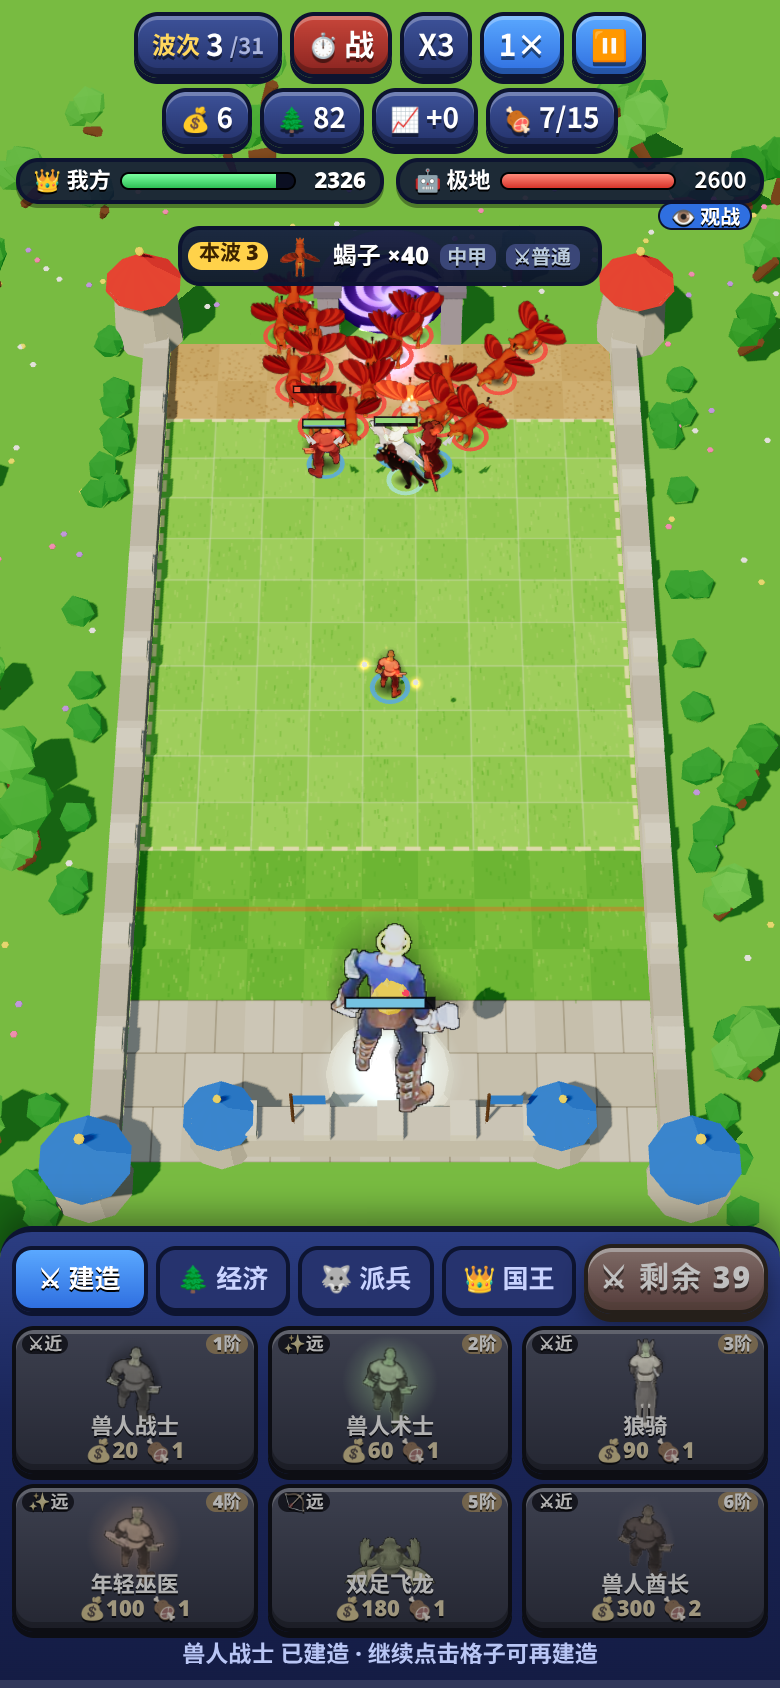
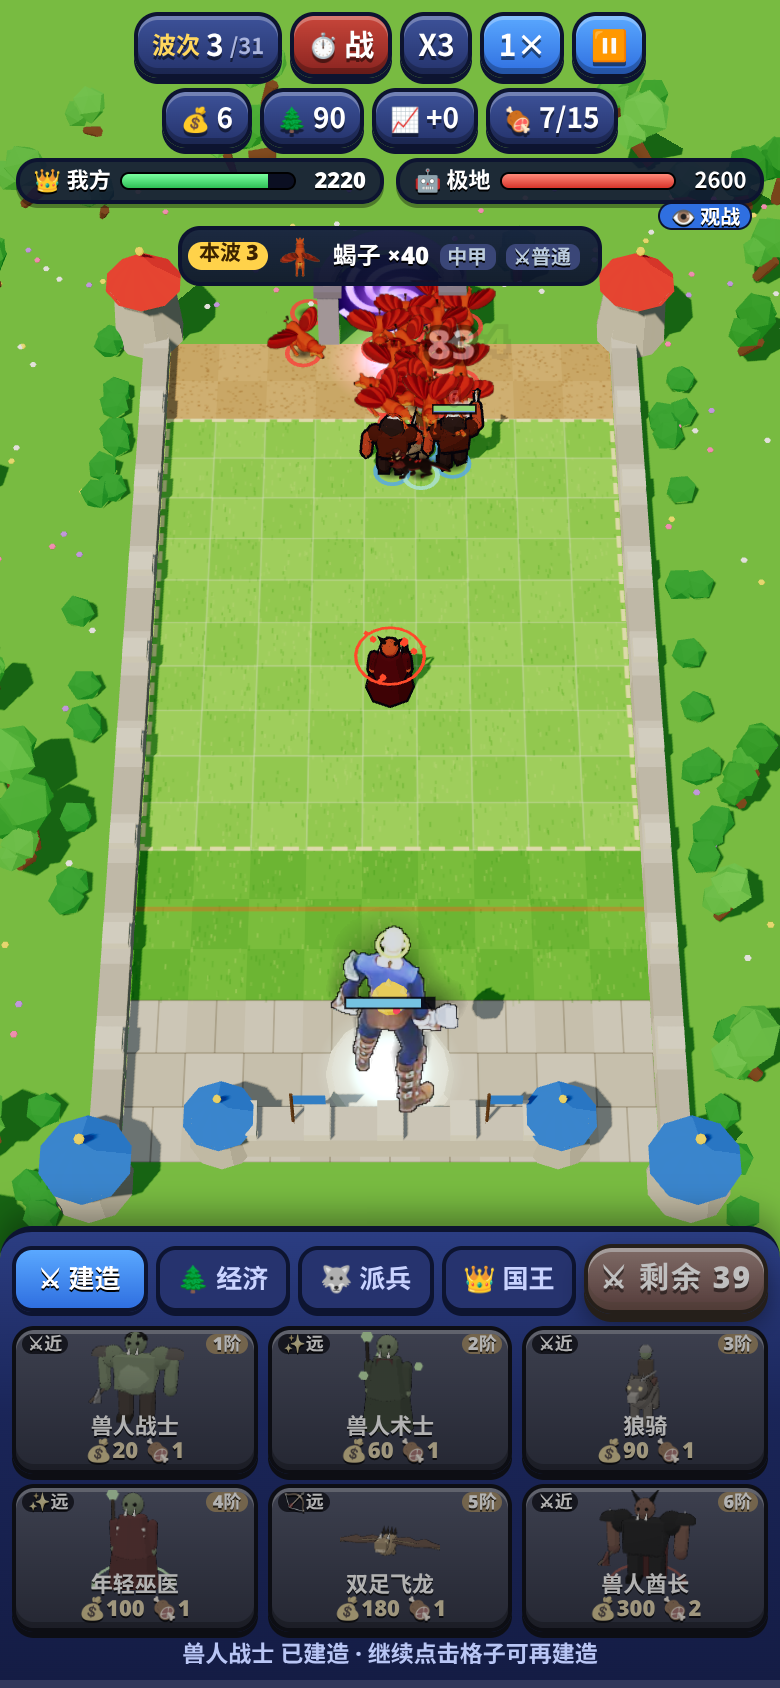
Model remake: Orc (grunts, blood orcs, warlocks, wolf raiders, witch doctors, wyverns, warchief, Thrall)

diff --git a/toonrecipes.js b/toonrecipes.js
@@ -87,3 +87,17 @@ R('h06Q',{k:1.02,h:1.05,torso:'default',head:'default',helm:'horns',hornC:0x2a1a
 R('h06R',{k:1.18,h:1.12,torso:'default',head:'default',helm:'horns',hornC:0x1a1a3a,skin:0x6a8ad8,torsoC:0x1a1a4a,legC:0x6a8ad8,legs:'hoof',hair:0x1a1a2a,weapon:'chain',glow:0x8ad8ff,atk:'swing',extras:['bwings:0x2a2a6a','tail:0x6a8ad8','aura:0xff8ad8','orbit:0xff8ad8']});
 R('h06S',{k:1.25,h:1.15,bw:1.4,torso:'brute',head:'beast',headC:0x7a5030,helm:'horns',hornC:0xf0e8d8,skin:0x8a5a3a,torsoC:0x8a5a3a,legC:0x5a3a20,sleeve:0x8a5a3a,handC:0x7a5030,legs:'hoof',eye:0xffd02a,weapon:'hammer',wood:0x6a4a2a,wMetal:0x8a8a8a,atk:'slam',extras:['mane:0x3a2a1a','tabard:0x3a8ad8','tail:0x5a3a20']});
 R('h06T',{k:1.3,h:1.18,bw:1.5,torso:'brute',head:'beast',headC:0x8a6a4a,skin:0x7a5a3a,torsoC:0x7a5a3a,legC:0x6a4a2a,sleeve:0x7a5a3a,handC:0x5a3a20,arms:'claw',eye:0xffa02a,weapon:'claws',off:'claws',atk:'slam',extras:['mane:0x5a3a20','belly:0xa08060','spikes:0x5a3a20']});
+// ===================== 兽人 Orc：兽人战士/术士/狼骑/双足飞龙/萨尔 =====================
+R('h0BF',{k:0.98,h:1.0,bw:1.3,torso:'brute',head:'default',skin:0x6a9a3a,torsoC:0x6a9a3a,legC:0x5a4030,sleeve:0x6a9a3a,handC:0x5a8a32,bootC:0x3a2a1a,hair:0x1a1a1a,weapon:'axe',wMetal:0x9a9aa0,pads:true,padC:0x6a5a4a,atk:'swing',extras:['tusks','belly:0x7aaa4a']});
+R('h0BS',{k:1.1,h:1.05,bw:1.35,torso:'brute',head:'default',skin:0xb8502a,torsoC:0xb8502a,legC:0x3a2a2a,sleeve:0xb8502a,handC:0xa8402a,bootC:0x2a1a1a,hair:0x1a1a1a,eye:0xff2a2a,weapon:'axe',wMetal:0x6a6a70,pads:true,padC:0x2a2a2a,spikes:true,atk:'swing',extras:['tusks','aura:0xff3a2a']});
+R('h0BU',{k:1.08,h:1.02,bw:1.25,torso:'brute',head:'default',skin:0xa8482a,torsoC:0x5a2a1a,legC:0x3a2a2a,sleeve:0xa8482a,handC:0xa8482a,bootC:0x2a1a1a,hair:0xd8d8d8,eye:0xff3a2a,weapon:'axe',off:'axe',wMetal:0xc8c8d0,atk:'swing',extras:['tusks','mane:0x3a2a2a','bones']});
+R('h0BV',{k:0.98,h:1.0,torso:'robe',head:'default',helm:'hood',hoodC:0x2a4a2a,skin:0x6a9a3a,torsoC:0x3a5a2a,weapon:'staff',wood:0x3a2a1a,glow:0x8aff4a,atk:'cast',extras:['tusks','tabard:0x8a2a2a','orbit:0x8aff4a']});
+R('h0BW',{k:1.1,h:1.05,torso:'robe',head:'default',helm:'horns',hornC:0x2a1a1a,skin:0xb8502a,torsoC:0x5a1a1a,weapon:'staff',wood:0x2a1a1a,glow:0xff4a2a,atk:'cast',extras:['tusks','bones','orbit:0xff4a2a','aura:0xff4a2a']});
+R('h0BX',{k:1.05,plan:'quad',skin:0x7a6a5a,skin2:0xa89a88,headType:'wolf',eye:0xffd02a,legLen:0.3,bodyLen:0.62,tailLen:0.35,tailW:1.4,mane:true,maneC:0x5a4a3a,claws:true,saddle:0x8a3a2a,rider:0x6a4a2a,riderSkin:0x6a9a3a,riderHelm:0x8a8a8a,lance:0x8a8a8a,atk:'bite'});
+R('h0C0',{k:1.2,plan:'quad',skin:0x2a2a2a,skin2:0x5a3a3a,headType:'wolf',eye:0xff3a2a,legLen:0.32,bodyLen:0.66,tailLen:0.38,tailW:1.4,mane:true,maneC:0x8a1a1a,claws:true,spikes:true,saddle:0x2a1a1a,rider:0x2a1a1a,riderSkin:0xb8502a,riderHelm:0x3a3a3a,lance:0x6a6a70,atk:'bite',extras:['aura:0xff3a2a']});
+R('h0C4',{k:1.0,h:1.0,torso:'robe',head:'default',helm:'hood',hoodC:0x8a1a1a,skin:0x6a9a3a,torsoC:0xa82a2a,weapon:'staff',wood:0x5a3a1a,glow:0x8aff6a,atk:'cast',extras:['tusks','bones','aura:0x8aff6a']});
+R('h0C2',{k:1.15,h:1.05,bw:1.2,torso:'robe',head:'default',helm:'hood',hoodC:0x4a1a3a,skin:0x5a8a3a,torsoC:0x6a2a4a,beard:0x2a2a2a,weapon:'staff',off:'book',bookC:0x3a2a1a,wood:0x3a2a1a,glow:0x8aff4a,pads:true,padC:0x2a2a2a,spikes:true,atk:'cast',extras:['tusks','beard:0x2a2a2a','aura:0x8aff4a','orbit:0x8aff4a']});
+R('h0C5',{k:0.95,plan:'flyer',skin:0xc8882a,skin2:0xf0c070,wingC:0x8a4a2a,eye:0xffe04a,neckLen:0.4,headS:1.15,tailLen:0.5,wingSpan:1.0,alt:0.4,atk:'shoot',extras:['spikes:0x3a2a1a']});
+R('h0C8',{k:1.08,plan:'flyer',skin:0xb87a2a,skin2:0xf0c070,wingC:0x6a3a1a,eye:0xffe04a,neckLen:0.4,headS:1.15,tailLen:0.5,wingSpan:1.08,alt:0.4,rider:0x6a4a2a,riderSkin:0x6a9a3a,atk:'shoot',extras:['spikes:0x3a2a1a','quiver']});
+R('h0C9',{k:1.12,h:1.12,bw:1.4,torso:'brute',head:'default',helm:'horns',hornC:0x1a1a1a,skin:0xb8502a,torsoC:0x2a2a2e,legC:0x2a2a2e,sleeve:0xb8502a,handC:0xa8402a,bootC:0x1a1a1a,eye:0xff2a2a,metal:0x3a3a40,weapon:'axe',wMetal:0xc83a2a,pads:true,padC:0x2a2a2e,spikes:true,atk:'slam',extras:['tusks','plate:0x3a3a40','cape:0x8a1a1a','aura:0xff3a2a']});
+R('h0CC',{k:1.12,h:1.12,bw:1.35,torso:'brute',head:'default',skin:0x5a8a32,torsoC:0x6a6a7a,legC:0x4a4a54,sleeve:0x5a8a32,handC:0x5a8a32,bootC:0x2a2a2a,hair:0x1a1a1a,metal:0x4a4a54,weapon:'hammer',wMetal:0x5a5a64,glow:0x8ad8ff,pads:true,padC:0x4a4a54,atk:'slam',extras:['tusks','plate:0x4a4a54','mane:0x9a8a7a','cape:0x8a1a1a','orbit:0x8ad8ff']});

diff --git a/index.html b/index.html
@@ -10,9 +10,9 @@
 <link rel="manifest" href="manifest.webmanifest">
 <link rel="icon" type="image/png" href="icons/favicon-32.png">
 <link rel="apple-touch-icon" href="icons/apple-touch-icon.png">
-<link rel="stylesheet" href="style.css?v=7">
-<link rel="stylesheet" href="td.css?v=7">
-<link rel="stylesheet" href="lt.css?v=7">
+<link rel="stylesheet" href="style.css?v=8">
+<link rel="stylesheet" href="td.css?v=8">
+<link rel="stylesheet" href="lt.css?v=8">
 </head>
 <body class="td lt">
 <canvas id="cv"></canvas>
@@ -75,8 +75,8 @@
 </div>
 <div id="showTitle" class="hidden"></div>
 <script src="audio.js?v=1"></script>
-<script src="lt_core.js?v=7"></script>
+<script src="lt_core.js?v=8"></script>
 <script type="importmap">{"imports":{"three":"./lib/three.module.min.js","three/addons/":"./lib/addons/"}}</script>
-<script type="module" src="lt.js?v=7"></script>
+<script type="module" src="lt.js?v=8"></script>
 </body>
 </html>

diff --git a/lt.js b/lt.js
@@ -3,8 +3,8 @@ import * as THREE from 'three';
 import {SPR_UNITS,SPR_K,SPR_V} from './sprdata.js';
 import {MODELS,modelOf} from './models.js';
 import {ABZ as ABZ_} from './abil_zh.js';
-import {initTK,buildTK,animTK} from './toonkit.js?v=7';
-import {TKR} from './toonrecipes.js?v=7';
+import {initTK,buildTK,animTK} from './toonkit.js?v=8';
+import {TKR} from './toonrecipes.js?v=8';
 const LT=window.LT,S=SFX.S,$=id=>document.getElementById(id);
 const Q=location.search;const DEBUG=/[?&]debug/.test(Q);const SHOWCASE=(Q.match(/[?&]showcase=([^&]+)/)||[])[1];
 const W=LT.W,H=LT.H,W2=W/2,H2=H/2;const B=LT.BUILD;

diff --git a/data/model_audit.md b/data/model_audit.md
@@ -35,7 +35,7 @@
 | Elf 精灵 | 13 | 1.85 | 2 | 13 |
 | Goblin 地精 | 13 | 1.15 | 0 | 0 |
 | Paladin 圣骑士 | 12 | 1.25 | 0 | 0 |
-| Orc 兽人 | 13 | 1.54 | 2 | 0 |
+| Orc 兽人 | 13 | 1.54 | 2 | 13 |
 | Undead 亡灵 | 13 | 1.31 | 1 | 0 |
 
 ## Mech 机械
@@ -149,19 +149,19 @@
 
 | id | 兵种 | WC3 模型 | 旧资源 | 旧资源符合度 | 处理 |
 |---|---|---|---|---|---|
-| h0BF | Orc Warrior 兽人战士 | Grunt | 精灵 orc | ✅ 基本相符 | 保留，后续统一换 ToonKit 时顺带做 |
-| h0BS | Blood Orc Warrior 血兽人战士 | ChaosGrunt | 精灵 orc | ✅ 基本相符 | 保留，后续统一换 ToonKit 时顺带做 |
-| h0BU | Wolverine 金刚狼 | ChaosOrcRange | 精灵 orc | ✅ 基本相符 | 保留，后续统一换 ToonKit 时顺带做 |
-| h0BV | Orc Warlock 兽人术士 | ChaosWarlockGreen | 精灵 goblin | ⚠ 部分不符 | ToonKit 程序化重做（按 WC3 轮廓/配色） |
-| h0BW | Blood Orc Warlock 血兽人术士 | ChaosWarlock | 精灵 goblin | ⚠ 部分不符 | ToonKit 程序化重做（按 WC3 轮廓/配色） |
-| h0BX | Raider 狼骑 | WolfRider | 精灵 wolfRider | ✅ 基本相符 | 保留，后续统一换 ToonKit 时顺带做 |
-| h0C0 | Blood Raider 血狼骑 | ChaosWolfRider | 精灵 wolfRider | ✅ 基本相符 | 保留，后续统一换 ToonKit 时顺带做 |
-| h0C4 | Young Witch Doctor 年轻巫医 | OrcWarlockRed | 精灵 hobgoblin | ❌ 严重不符 | ToonKit 程序化重做（按 WC3 轮廓/配色） |
-| h0C2 | Elder Witch Doctor 长老巫医 | OrcWarlockGuldan | 精灵 hobgoblin | ❌ 严重不符 | ToonKit 程序化重做（按 WC3 轮廓/配色） |
-| h0C5 | Wyvern 双足飞龙 | RiderlessWyvern | 精灵 wyvern | ✅ 基本相符 | 保留，后续统一换 ToonKit 时顺带做 |
-| h0C8 | Wind rider 风骑士 | WyvernRider | 精灵 wyvern | ⚠ 部分不符 | ToonKit 程序化重做（按 WC3 轮廓/配色） |
-| h0C9 | Orc Warchief 兽人酋长 | ChaosWarlord | 精灵 orc | ✅ 基本相符 | 保留，后续统一换 ToonKit 时顺带做 |
-| h0CC | Thrall 萨尔 | Thrall | 精灵 orc | ✅ 基本相符 | 保留，后续统一换 ToonKit 时顺带做 |
+| h0BF | Orc Warrior 兽人战士 | Grunt | 精灵 orc | ✅ 基本相符 | **已重做**：ToonKit 程序化卡通模型（humanoid） |
+| h0BS | Blood Orc Warrior 血兽人战士 | ChaosGrunt | 精灵 orc | ✅ 基本相符 | **已重做**：ToonKit 程序化卡通模型（humanoid） |
+| h0BU | Wolverine 金刚狼 | ChaosOrcRange | 精灵 orc | ✅ 基本相符 | **已重做**：ToonKit 程序化卡通模型（humanoid） |
+| h0BV | Orc Warlock 兽人术士 | ChaosWarlockGreen | 精灵 goblin | ⚠ 部分不符 | **已重做**：ToonKit 程序化卡通模型（humanoid） |
+| h0BW | Blood Orc Warlock 血兽人术士 | ChaosWarlock | 精灵 goblin | ⚠ 部分不符 | **已重做**：ToonKit 程序化卡通模型（humanoid） |
+| h0BX | Raider 狼骑 | WolfRider | 精灵 wolfRider | ✅ 基本相符 | **已重做**：ToonKit 程序化卡通模型（quad） |
+| h0C0 | Blood Raider 血狼骑 | ChaosWolfRider | 精灵 wolfRider | ✅ 基本相符 | **已重做**：ToonKit 程序化卡通模型（quad） |
+| h0C4 | Young Witch Doctor 年轻巫医 | OrcWarlockRed | 精灵 hobgoblin | ❌ 严重不符 | **已重做**：ToonKit 程序化卡通模型（humanoid） |
+| h0C2 | Elder Witch Doctor 长老巫医 | OrcWarlockGuldan | 精灵 hobgoblin | ❌ 严重不符 | **已重做**：ToonKit 程序化卡通模型（humanoid） |
+| h0C5 | Wyvern 双足飞龙 | RiderlessWyvern | 精灵 wyvern | ✅ 基本相符 | **已重做**：ToonKit 程序化卡通模型（flyer） |
+| h0C8 | Wind rider 风骑士 | WyvernRider | 精灵 wyvern | ⚠ 部分不符 | **已重做**：ToonKit 程序化卡通模型（flyer） |
+| h0C9 | Orc Warchief 兽人酋长 | ChaosWarlord | 精灵 orc | ✅ 基本相符 | **已重做**：ToonKit 程序化卡通模型（humanoid） |
+| h0CC | Thrall 萨尔 | Thrall | 精灵 orc | ✅ 基本相符 | **已重做**：ToonKit 程序化卡通模型（humanoid） |
 
 ## Shadow 暗影
 
